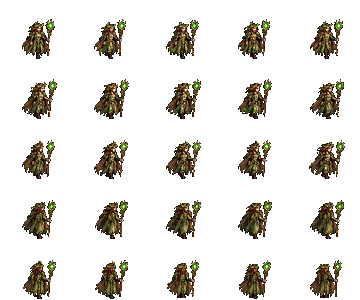
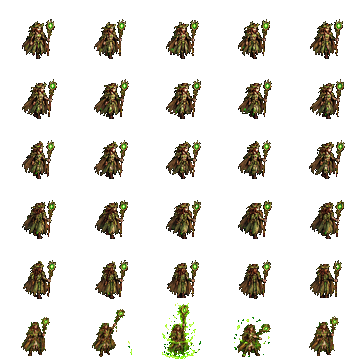
Талиесин: поза умения друида и зверь во всех направлениях
- друид: при умениях — каст с поднятым посохом в вихре листвы
  (шестой ряд листа атаки);
- облик зверя: новый волк — шаг к нам, вбок и от нас, анимация
  выбирается по направлению движения, влево — зеркало; удар — бросок
  к цели.

Claude-Session: https://claude.ai/code/session_01AmWdLgRH5KkZouVun3YtrH

diff --git a/public/js/game.js b/public/js/game.js
@@ -47,7 +47,7 @@ window.GameScene = class GameScene extends Phaser.Scene {
     // Звериный облик героя (Талиесин): ходьба и удары
     for (const [id, sk] of Object.entries(Skins.LIST)) {
       if (!sk.beast || !this.textures.exists('bskin_' + id)) continue;
-      this.anims.create({ key: `bwalk_${id}`, frames: sk.beast.walk.map((f) => ({ key: 'bskin_' + id, frame: f })), frameRate: 9, repeat: -1 });
+      for (const d of ['down', 'side', 'up']) this.anims.create({ key: `bwalk_${id}_${d}`, frames: sk.beast[d].map((f) => ({ key: 'bskin_' + id, frame: f })), frameRate: 9, repeat: -1 });
       this.anims.create({ key: `batk_${id}`, frames: sk.beast.attack.map((f) => ({ key: 'bskin_' + id, frame: f })), frameRate: 22, repeat: 0 });
     }
     for (const [id, m] of Object.entries(Skins.MOBS)) {
@@ -384,12 +384,16 @@ window.GameScene = class GameScene extends Phaser.Scene {
   }
 
   // Нарисованный звериный облик: шаг и поворот по направлению движения
-  animBeast(e, vx, moving) {
+  animBeast(e, vx, vy, moving) {
     if (!e.beast || e.attacking) return;
-    if (Math.abs(vx) > 0.3) e.sprite.setFlipX(vx < 0);
-    const key = `bwalk_${e.beast}`;
-    if (moving) { if (!e.sprite.anims.isPlaying) e.sprite.play(key, true); }
-    else if (e.sprite.anims.isPlaying) { e.sprite.stop(); e.sprite.setFrame(Skins.get(e.beast).beast.walk[0]); }
+    const bs = Skins.get(e.beast).beast;
+    if (moving && (Math.abs(vx) > 0.3 || Math.abs(vy) > 0.3)) {
+      e.bdir = Math.abs(vy) > Math.abs(vx) * 1.2 ? (vy > 0 ? 'down' : 'up') : 'side';
+      e.sprite.setFlipX(e.bdir === 'side' && vx < 0);
+    }
+    const key = `bwalk_${e.beast}_${e.bdir || 'down'}`;
+    if (moving) { if (!e.sprite.anims.isPlaying || e.sprite.anims.currentAnim.key !== key) e.sprite.play(key, true); }
+    else { if (e.sprite.anims.isPlaying) e.sprite.stop(); e.sprite.setFrame(bs[e.bdir || 'down'][0]); }
   }
 
   // Направление и шаг скина: (vx, vy) — куда идём; moving — идём ли сейчас
@@ -529,7 +533,7 @@ window.GameScene = class GameScene extends Phaser.Scene {
         if (p.form === 'beast') {
           e.sprite.stop(); e.skinOn = false;
           const bs = this.textures.exists('bskin_' + p.hero) && Skins.get(p.hero).beast;
-          if (bs) { e.beast = p.hero; e.sprite.setTexture('bskin_' + p.hero, bs.walk[0]).setOrigin(0.5, (bs.h - 15) / bs.h); } // нарисованный зверь
+          if (bs) { e.beast = p.hero; e.bdir = 'down'; e.sprite.setTexture('bskin_' + p.hero, bs.down[0]).setOrigin(0.5, (bs.h - 15) / bs.h); } // нарисованный зверь
           else e.sprite.setTexture('hero_' + p.hero + '_beast').setOrigin(0.5);
         } else this.applySkin(e, p.hero);
       }
@@ -746,9 +750,12 @@ window.GameScene = class GameScene extends Phaser.Scene {
       if (!ownSwing && !f.pet && f.basic && attacker && attacker.beast) {
         // Удар лапами нарисованного зверя
         const bs = Skins.get(attacker.beast).beast;
-        attacker.sprite.setFlipX(tx0 < attacker.c.x); attacker.attacking = true;
+        attacker.sprite.setFlipX(tx0 < attacker.c.x); attacker.attacking = true; attacker.bdir = 'side';
         attacker.sprite.play(`batk_${attacker.beast}`);
-        attacker.sprite.once('animationcomplete', () => { attacker.attacking = false; if (attacker.beast) attacker.sprite.setFrame(bs.walk[0]); });
+        // бросок к цели и обратно
+        const dx = Math.sign(tx0 - attacker.c.x) * 10;
+        this.tweens.add({ targets: attacker.sprite, x: dx, duration: 90, yoyo: true, onComplete: () => { attacker.sprite.x = 0; } });
+        attacker.sprite.once('animationcomplete', () => { attacker.attacking = false; if (attacker.beast) attacker.sprite.setFrame(bs.side[0]); });
         HeroFx.fxPlay && HeroFx.fxPlay(this, attacker.beast, 'hit', tx0, ty0 - 8, { scale: f.crit ? 1 : 0.7 });
         ownSwing = true;
       }
@@ -1904,7 +1911,7 @@ window.GameScene = class GameScene extends Phaser.Scene {
       if (e.skinOn) {
         const moving = Math.hypot(mx, my) > 1.5;
         this.animSkin(e, moving ? mx : 0, moving ? my : 0, moving);
-      } else if (e.beast) this.animBeast(e, mx, Math.hypot(mx, my) > 1.5);
+      } else if (e.beast) this.animBeast(e, mx, my, Math.hypot(mx, my) > 1.5);
     }
     for (const e of this.monsters.values()) {
       const mx = e.tx - e.c.x, my = e.ty - e.c.y;
@@ -1962,7 +1969,7 @@ window.GameScene = class GameScene extends Phaser.Scene {
     this.revealFog();
     const walking = len > 0 && !me.data.dead && !this.myStats.rooted && !held;
     if (me.e.skinOn) this.animSkin(me.e, walking ? vx : 0, walking ? vy : 0, walking);
-    else if (me.e.beast) this.animBeast(me.e, walking ? vx : 0, walking);
+    else if (me.e.beast) this.animBeast(me.e, walking ? vx : 0, walking ? vy : 0, walking);
     else {
       me.e.sprite.setFlipX(me.dir === -1);
       // Лёгкая «походка»

diff --git a/public/js/skins.js b/public/js/skins.js
@@ -90,11 +90,11 @@ window.Skins = (() => {
     },
     taliesin: {
       sheet: 'assets/heroes/taliesin_sheet.png', portrait: 'assets/heroes/taliesin_portrait.png', w: 36, h: 48, frames: 5,
-      // Атака друида: 5 направлений; позы умения нет — для умений ряд «вниз»
-      attack: { sheet: 'assets/heroes/taliesin_attack.png', w: 72, h: 60, frames: 5, rows: 5, cast: 0 },
+      // Атака друида: 5 направлений и поза умения (последний ряд)
+      attack: { sheet: 'assets/heroes/taliesin_attack.png', w: 72, h: 60, frames: 5, rows: 6, cast: 5 },
       fx: { sheet: 'assets/heroes/taliesin_fx.png', size: 72, frames: 6, rows: ['bolt', 'hit', 'shapeshift', 'feralCharge', 'forestBlessing', 'naturesThorns', 'aura'] },
-      // Облик зверя: лист в ряд, как у монстров (смотрит вправо): ходьба и удары лапами
-      beast: { sheet: 'assets/heroes/taliesin_beast.png', w: 53, h: 50, walk: [0, 1, 2, 3, 4], attack: [5, 6, 7, 8, 9, 10, 11, 12, 13] },
+      // Облик зверя: лист в ряд — шаг к нам, вбок (смотрит вправо, влево — зеркало), от нас; удар — рывок боковыми кадрами
+      beast: { sheet: 'assets/heroes/taliesin_beast.png', w: 55, h: 50, down: [0, 1, 2, 3, 4], side: [5, 6, 7, 8, 9], up: [10, 11, 12, 13, 14], attack: [5, 7, 9, 7] },
     },
     morvenKnight: { sheet: 'assets/heroes/morvenKnight_sheet.png', portrait: 'assets/heroes/morvenKnight_portrait.png', w: 36, h: 48, frames: 5 },
   };
